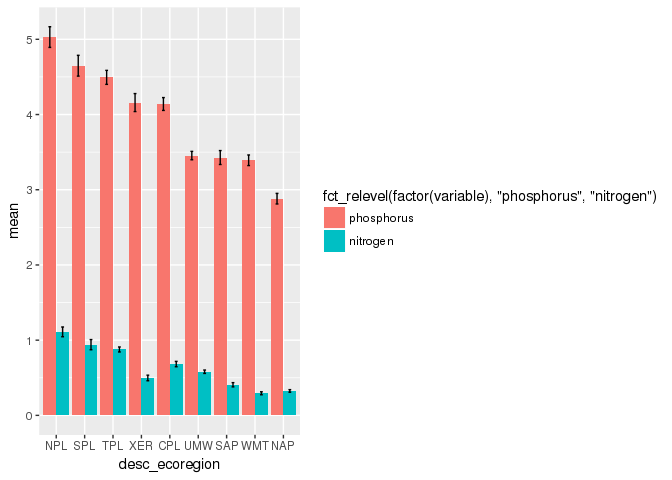
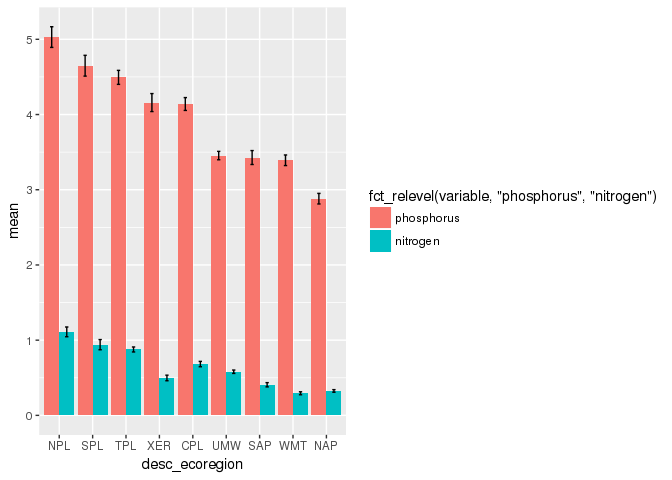
materials ready for friday (I think)

Changed region(s): [[0.0625, 0.0625, 0.7188, 0.875], [0.0625, 0.9062, 0.5, 1.0]]

diff --git a/data_to_figures.md b/data_to_figures.md
@@ -11,6 +11,28 @@ For this short workshop we will use two datasets and create two separate plots, 
 Brief refresher on the basics of `ggplot2`
 ------------------------------------------
 
+I realize that for some of you it may have been a while since you've used `ggplot2`. We will go through the basics again quickly.
+
+The three (four, really) functions for building up a `ggplot` object are 1) `ggplot()`, 2) `aes()`, 3) `geom_xxx()`, and 4) this one is optional, but `theme()` or `theme_xxx()` will let you change the look and feel.
+
+Using these, and the `iris` data frame we can build a quick scatterplot:
+
+``` r
+petal_l_w <- ggplot(iris, aes(x = Petal.Length, y = Petal.Width)) + geom_point()
+petal_l_w
+```
+
+![](data_to_figures_files/figure-markdown_github/refersher1-1.png)
+
+And if we want to change the way this looks, we could use `theme()` or use some of the canned themes such as `theme_classic()`:
+
+``` r
+petal_l_w <- petal_l_w + theme_classic()
+petal_l_w
+```
+
+![](data_to_figures_files/figure-markdown_github/referesher2-1.png)
+
 Bar chart with error bars
 -------------------------
 
@@ -69,7 +91,7 @@ nla12_bar_data
 
     ## # A tibble: 18 × 4
     ##    FW_ECO9   variable      mean  std_error
-    ##     <fctr>      <chr>     <dbl>      <dbl>
+    ##      <chr>      <chr>     <dbl>      <dbl>
     ## 1      CPL   nitrogen 0.6822705 0.03554801
     ## 2      NAP   nitrogen 0.3253554 0.01715347
     ## 3      NPL   nitrogen 1.1103478 0.06460114
@@ -93,7 +115,7 @@ Now that was easy!
 
 Well, I am being sarcastic, because getting the data ready is really about 90% of the effort and those few lines of code can often take quite a bit of effort to get right. But this workshop is about plotting, so can't spend too much time on this.
 
-Now, let's start building out our plot.
+Now, let's start building out our plot. First, the bar chart and error bars.
 
 ``` r
 nla12_bar <- ggplot(nla12_bar_data,aes(x = FW_ECO9, y = mean, fill = variable)) +
@@ -119,8 +141,8 @@ library(forcats)
 eco9_ord <- nla12_bar_data %>% filter(variable == "phosphorus") %>% arrange(desc(mean)) %>% 
     .$FW_ECO9
 
-nla12_bar_data <- nla12_bar_data %>% mutate(desc_ecoregion = fct_relevel(factor(FW_ECO9, 
-    eco9_ord)))
+nla12_bar_data <- nla12_bar_data %>% mutate(desc_ecoregion = fct_relevel(FW_ECO9, 
+    eco9_ord))
 ```
 
 Now with that done, we can recreate our plot from above
@@ -140,7 +162,7 @@ nla12_bar
 And lastly maybe I want phosphorus first. This is a bit more straightforward.
 
 ``` r
-nla12_bar <- ggplot(nla12_bar_data,aes(x = desc_ecoregion, y = mean, fill = fct_relevel(factor(variable),"phosphorus" ,"nitrogen")))+
+nla12_bar <- ggplot(nla12_bar_data,aes(x = desc_ecoregion, y = mean, fill = fct_relevel(variable,"phosphorus" ,"nitrogen")))+
   geom_bar(stat = "identity", position = position_dodge()) +
   geom_errorbar(aes(ymin=mean-std_error, ymax=mean+std_error),
                   width=.2,                    # Width of the error bars

diff --git a/README.md b/README.md
@@ -1,4 +1,4 @@
 # data_to_figures
 This mini-workshop will cover using ggplot2 to go from data to figures for a paper.
 
-Materials for this are in the [data_to_figures.Rmd](https://github.com/rhodyrstats/data_to_figures/blob/master/data_to_figures.Rmd)
+Materials for this are in the [data_to_figures.Rmd](https://github.com/rhodyrstats/data_to_figures/blob/master/data_to_figures.md)
